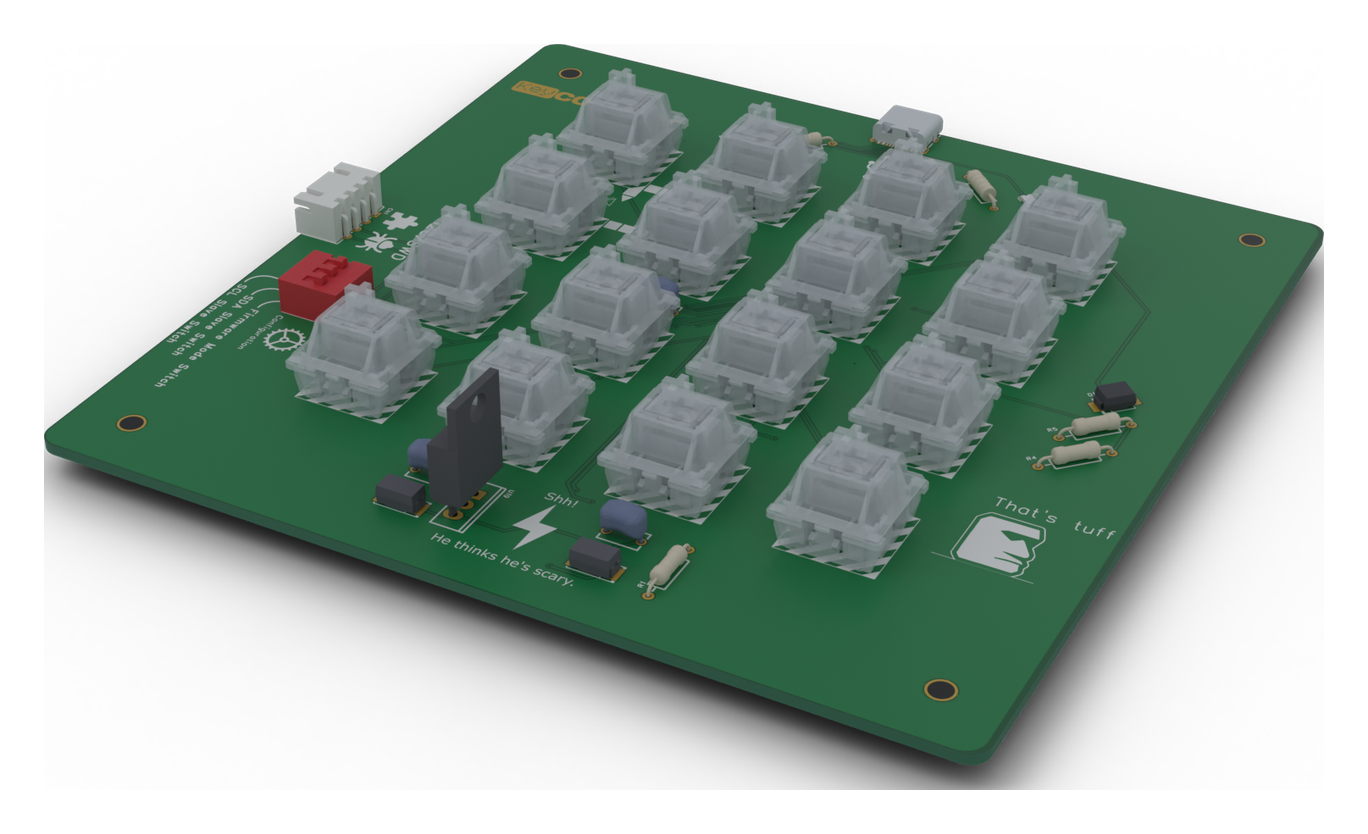
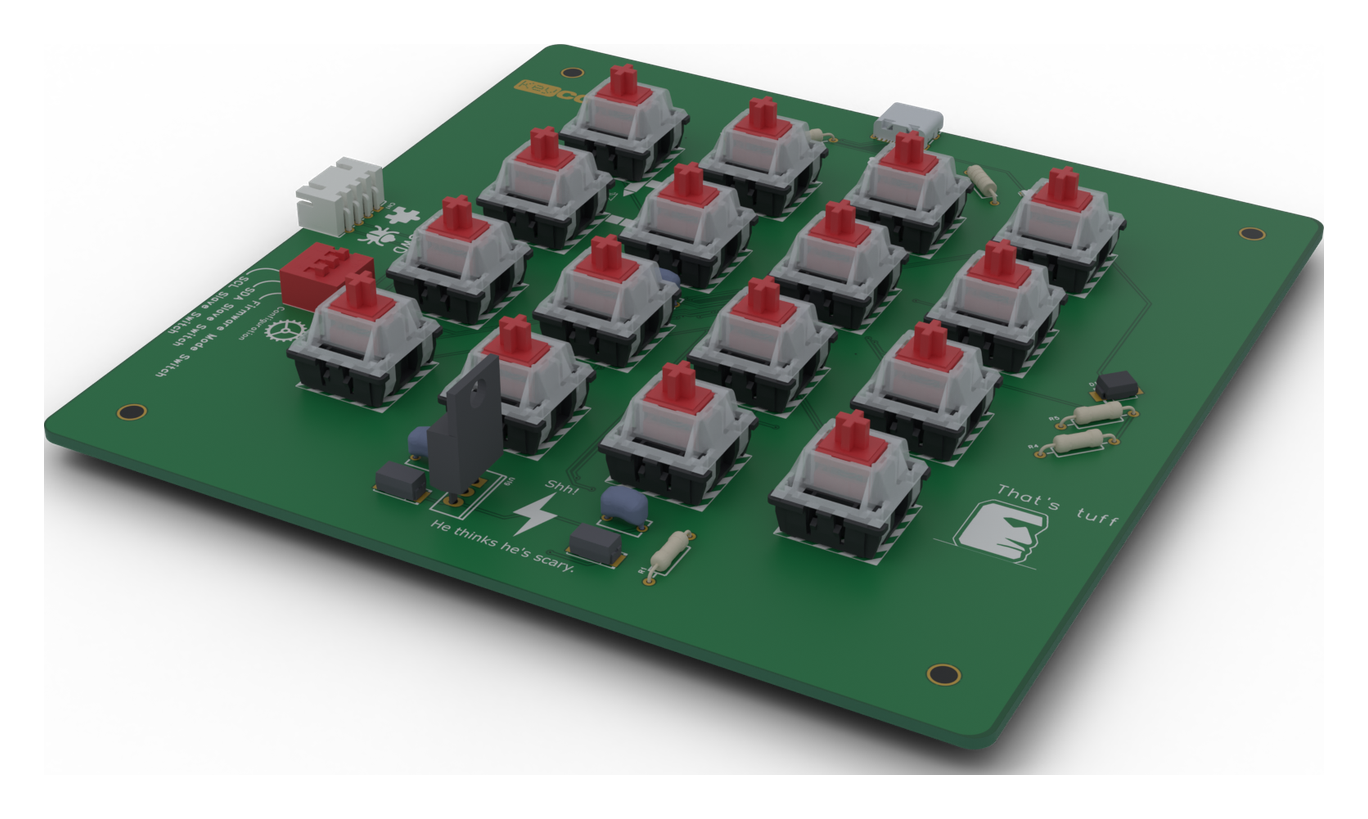
Model the switches like real clear-housing Cherry MX parts
The clear housings were letting the board artwork show straight through them,
which made the switch interior read as a black hole. Each switch model is built
from separate solids, so split them by connectivity and classify each part by
its bounding box:

  top housing shell              -> clear (alpha 0.40)
  stem (the "+")                 -> solid red, like a Cherry MX Red
  bottom housing/spring/contacts -> near-black

That is what a clear-housing Cherry MX looks like from the outside, and it also
fixes the two things that read as wrong: no more black void through the middle,
and no board print showing through the shell. The DIP switch stays solid red.

Re-rendered both assembled views and updated the preview/README notes.

diff --git a/mechanical/pcb/previews/README.md b/mechanical/pcb/previews/README.md
@@ -75,10 +75,18 @@ with [sharp](https://sharp.pixelplumbing.com/) (`top.svg`/`bottom.svg` →
 4. Light it with a key, a fill and a rim area light plus a soft world, film
    transparent, `Standard` view transform, and frame each view automatically
    (~62 mm lens, camera distance solved so the content fits the frame).
-5. Re-colour two materials by name: the switch housings (`switch`) are rendered
-   translucent (alpha 0.35) so the silkscreen underneath stays readable, and the
-   DIP/slide switch (`slide`) is solid red. Nothing else is touched — the board
-   artwork still comes only from the Gerbers.
+5. Re-colour the switches. Every switch model is a group of separate solids, so
+   each one is split by connectivity and classified by its bounding box:
+
+   | Part | Finish |
+   |---|---|
+   | Top housing shell | clear (alpha 0.40, frosted) |
+   | Stem (the `+`) | solid red, like a Cherry MX Red |
+   | Bottom housing, spring, contacts, pins | near-black |
+
+   That is how a clear-housing Cherry MX actually looks from the outside. The
+   DIP/slide switch (`slide`) is solid red too. Nothing else is touched — the
+   board artwork still comes only from the Gerbers.
 
 The published renders are 1280 px wide so the READMEs stay quick to load.
 
@@ -92,8 +100,9 @@ hatching. That is **real silkscreen**, straight out of the `CherryMX_9.75u`
 footprint in the Gerber (`Gerber_TopSilkscreenLayer.GTO`, 250 `G36` regions, no
 `GKO` cut-outs anywhere on the board) — it is the footprint's switch-body outline.
 It gets printed on the real board exactly as drawn, so if it is not wanted it has
-to be removed in the footprint itself. In `Assembled_View.png` the translucent
-switch housings let it show through.
+to be removed in the footprint itself. In `Assembled_View.png` the clear switch
+housings sit on top of it, so through them you see the switch's own red stem and
+black base rather than the print.
 
 ## A note on the gold wordmark
 

diff --git a/README.md b/README.md
@@ -35,8 +35,8 @@ so bottom-side text reads mirrored here — exactly as it does in any fab viewer
 
 Fully populated 3D views, rebuilt from the Gerber artwork itself (silkscreen,
 soldermask openings and all) with the component bodies taken from the STEP export.
-The switch housings are drawn translucent so the silkscreen under them stays
-visible, and the DIP switch is picked out in red.
+The switches are modelled like real clear-housing Cherry MX parts: a clear shell
+with a red stem and a black base, and the DIP switch is picked out in red.
 
 ![Assembled board, top side](mechanical/pcb/previews/Assembled_View.png)
 
